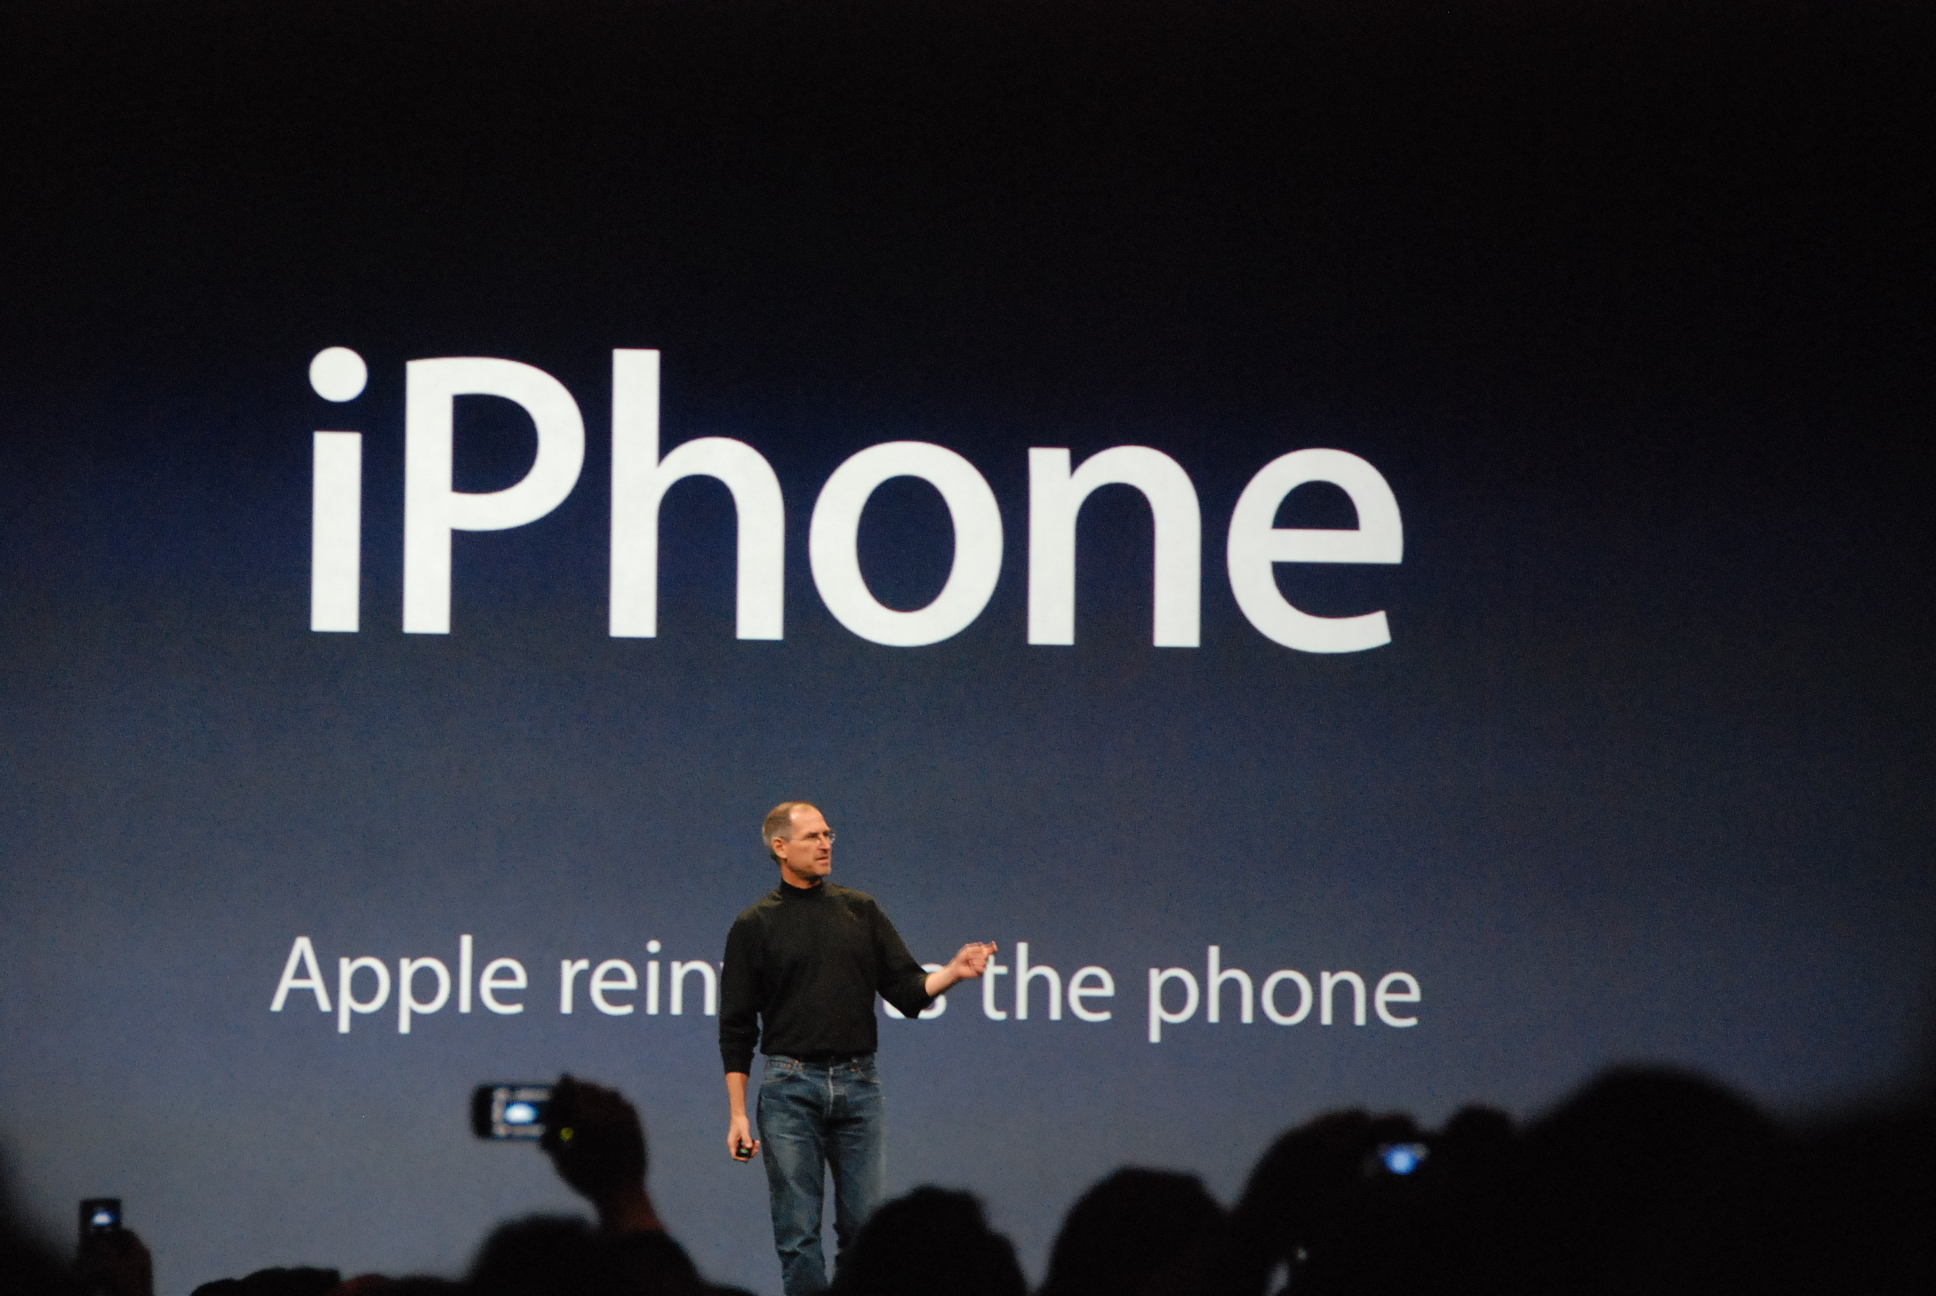
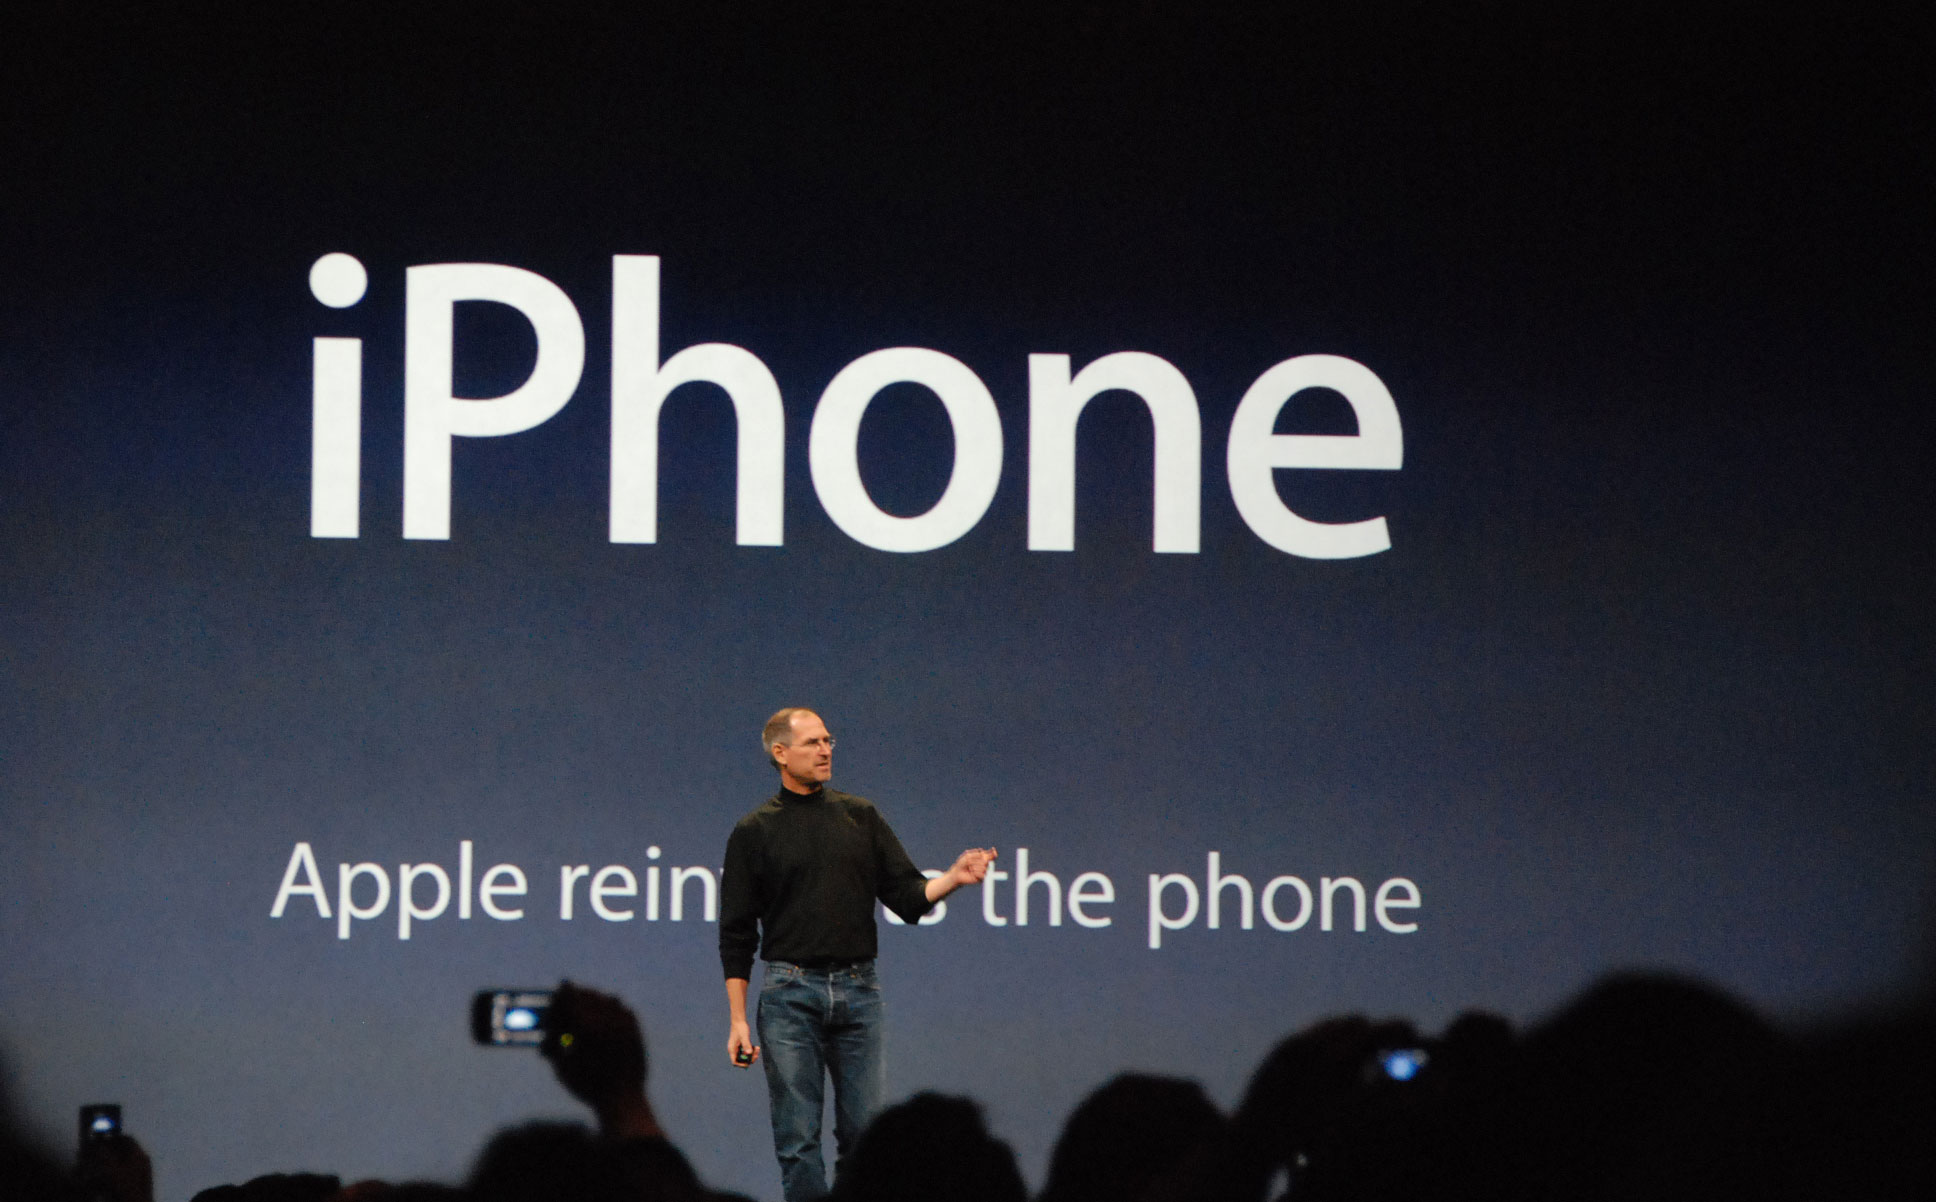
Working on slides

diff --git a/public/index.html b/public/index.html
@@ -616,6 +616,10 @@ pre .xml .cdata {
   background-image: url(images/new-years-eve-1664737_1920.jpg);
 }
 
+.bg-iphone-launch {
+  background-image: url(images/Steve_Jobs_presents_iPhone.jpg);
+}
+
   </style>
 </head>
 <body>
@@ -632,15 +636,17 @@ pre .xml .cdata {
   <p><a href="https://twitter.com/samsunginternet">@samsunginternet</a></p>
 </div>
 
-<div class="credit"><a href="https://www.flickr.com/photos/armadillo444/2901378790">flickr.com/photos/armadillo444/</a></div></section>
+<div class="credit"><a href="https://www.flickr.com/photos/armadillo444/2901378790">flickr.com/photos/armadillo444/</a></div>
+
+<!-- TODO include later? -->
+<!--![Samsung Internet icon on homescreen](images/samsung-internet-home.png)-->
+<!--![Snapwat](images/snapwat.png)--></section>
   </div>
   <div class="slide hidden  bg-2017" id="slide-2">
-    <section class="slide-content"><div class="credit"><a href="https://pixabay.com/en/new-year-s-eve-fireworks-2017-1664737/">pixabay</a></div>
-
-<!--![Samsung Internet icon on homescreen](images/samsung-internet-home.png)--></section>
+    <section class="slide-content"><div class="credit"><a href="https://pixabay.com/en/new-year-s-eve-fireworks-2017-1664737/">pixabay</a></div></section>
   </div>
-  <div class="slide hidden" id="slide-3">
-    <section class="slide-content"><!--![Snapwat](images/snapwat.png)--></section>
+  <div class="slide hidden  bg-iphone-launch" id="slide-3">
+    <section class="slide-content"><div class="credit"><a href="https://commons.wikimedia.org/wiki/File:Steve_Jobs_presents_iPhone.jpg">Wikimedia</a></div></section>
   </div>
   <div class="slide hidden" id="slide-4">
     <section class="slide-content"><blockquote>

diff --git a/src/peter-theme/style.css b/src/peter-theme/style.css
@@ -608,3 +608,7 @@ pre .xml .cdata {
 .bg-2017:after {
   background-image: url(images/new-years-eve-1664737_1920.jpg);
 }
+
+.bg-iphone-launch {
+  background-image: url(images/Steve_Jobs_presents_iPhone.jpg);
+}

diff --git a/src/index.md b/src/index.md
@@ -17,15 +17,18 @@ controls: false
 
 <div class="credit">[flickr.com/photos/armadillo444/](https://www.flickr.com/photos/armadillo444/2901378790)</div>
 
+<!-- TODO include later? -->
+<!--![Samsung Internet icon on homescreen](images/samsung-internet-home.png)-->
+<!--![Snapwat](images/snapwat.png)-->
+
+
 -- bg-2017
 
 <div class="credit">[pixabay](https://pixabay.com/en/new-year-s-eve-fireworks-2017-1664737/)</div>
 
-<!--![Samsung Internet icon on homescreen](images/samsung-internet-home.png)-->
+-- bg-iphone-launch
 
---
-
-<!--![Snapwat](images/snapwat.png)-->
+<div class="credit">[Wikimedia](https://commons.wikimedia.org/wiki/File:Steve_Jobs_presents_iPhone.jpg)</div>
 
 --
 
